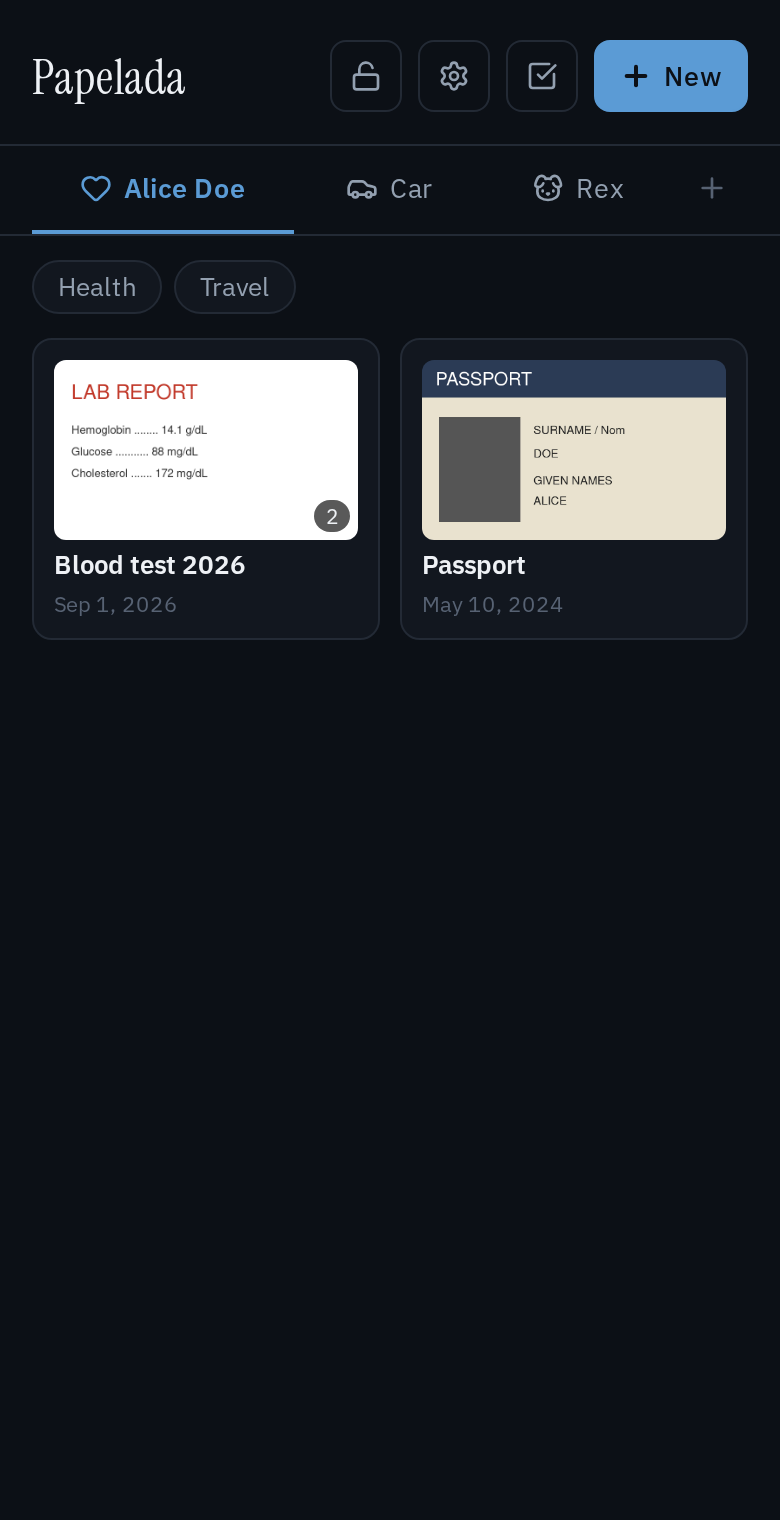
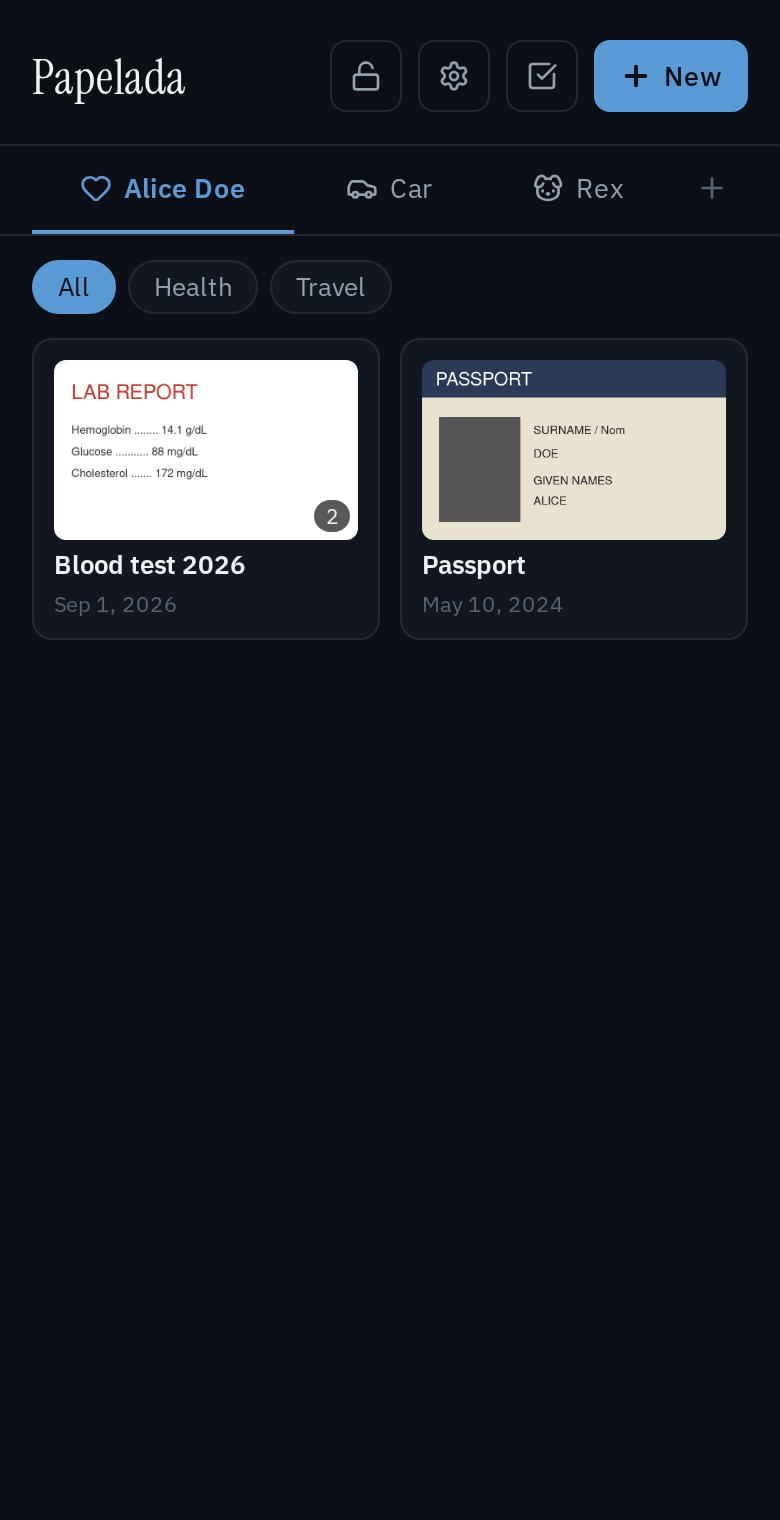
Add an "All" chip that clears the tag filter
Claude-Session: https://claude.ai/code/session_01WvMG35T94nBWikSaEyMqSh

Changed region(s): [[0.0308, 0.1546, 0.1846, 0.2164], [0.2154, 0.1855, 0.3385, 0.2164], [0.4, 0.1855, 0.4615, 0.2164]]

diff --git a/frontend/app.js b/frontend/app.js
@@ -284,17 +284,23 @@
     documents.forEach(function (doc) {
       doc.tags.forEach(function (tagId) { used[tagId] = true; });
     });
-    tags.filter(function (tag) { return used[tag.id]; }).forEach(function (tag) {
-      var chip = el('button', activeTagId === tag.id ? 'active' : '', tag.name);
+    var usedTags = tags.filter(function (tag) { return used[tag.id]; });
+    tagFilter.hidden = !usedTags.length;
+    if (!usedTags.length) return;
+
+    function addChip(tagId, label) {
+      var chip = el('button', activeTagId === tagId ? 'active' : '', label);
       chip.type = 'button';
       chip.addEventListener('click', function () {
-        activeTagId = activeTagId === tag.id ? null : tag.id;
+        activeTagId = activeTagId === tagId ? null : tagId;
         exitSelectMode();
         renderDocuments();
       });
       tagFilter.appendChild(chip);
-    });
-    tagFilter.hidden = !tagFilter.children.length;
+    }
+
+    addChip(null, t('allTags'));
+    usedTags.forEach(function (tag) { addChip(tag.id, tag.name); });
   }
 
   function visibleDocuments() {

diff --git a/frontend/i18n.js b/frontend/i18n.js
@@ -19,6 +19,7 @@ var I18N = (function () {
       organize: 'Sections and tags',
       sections: 'Sections',
       tags: 'Tags',
+      allTags: 'All',
       newSection: 'New section',
       editSection: 'Edit section',
       name: 'Name',
@@ -102,6 +103,7 @@ var I18N = (function () {
       organize: 'Seções e tags',
       sections: 'Seções',
       tags: 'Tags',
+      allTags: 'Todos',
       newSection: 'Nova seção',
       editSection: 'Editar seção',
       name: 'Nome',
